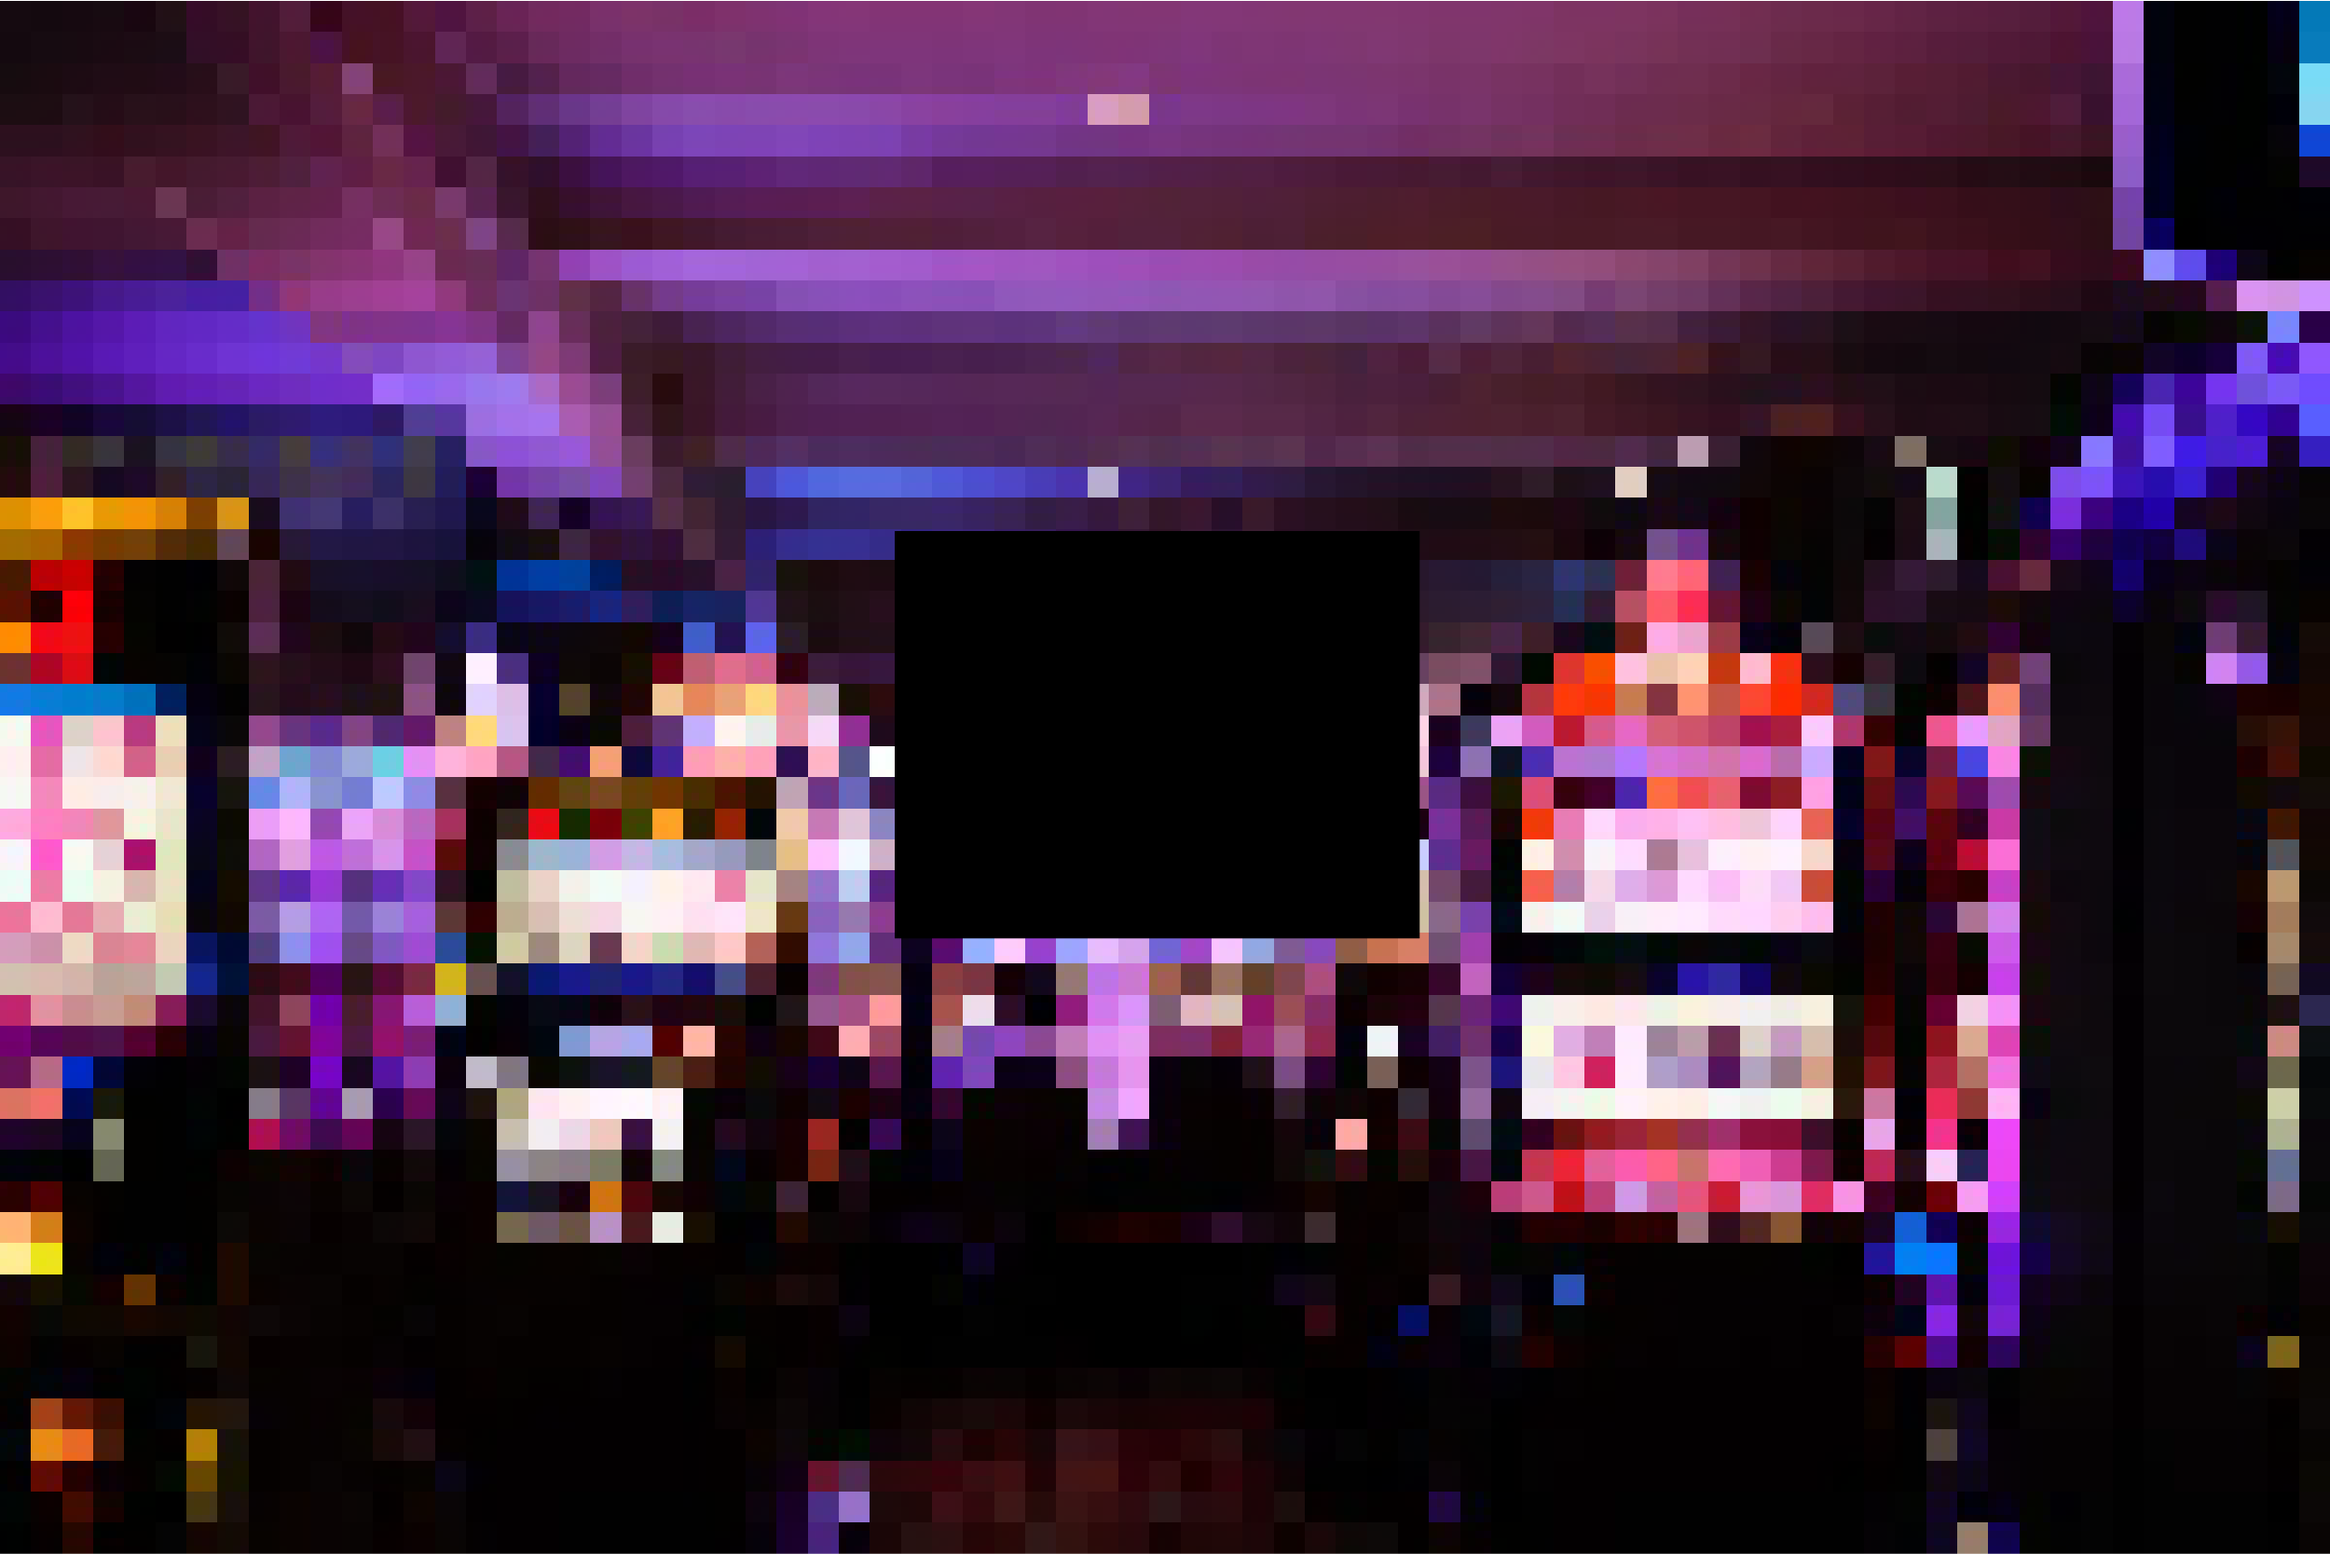
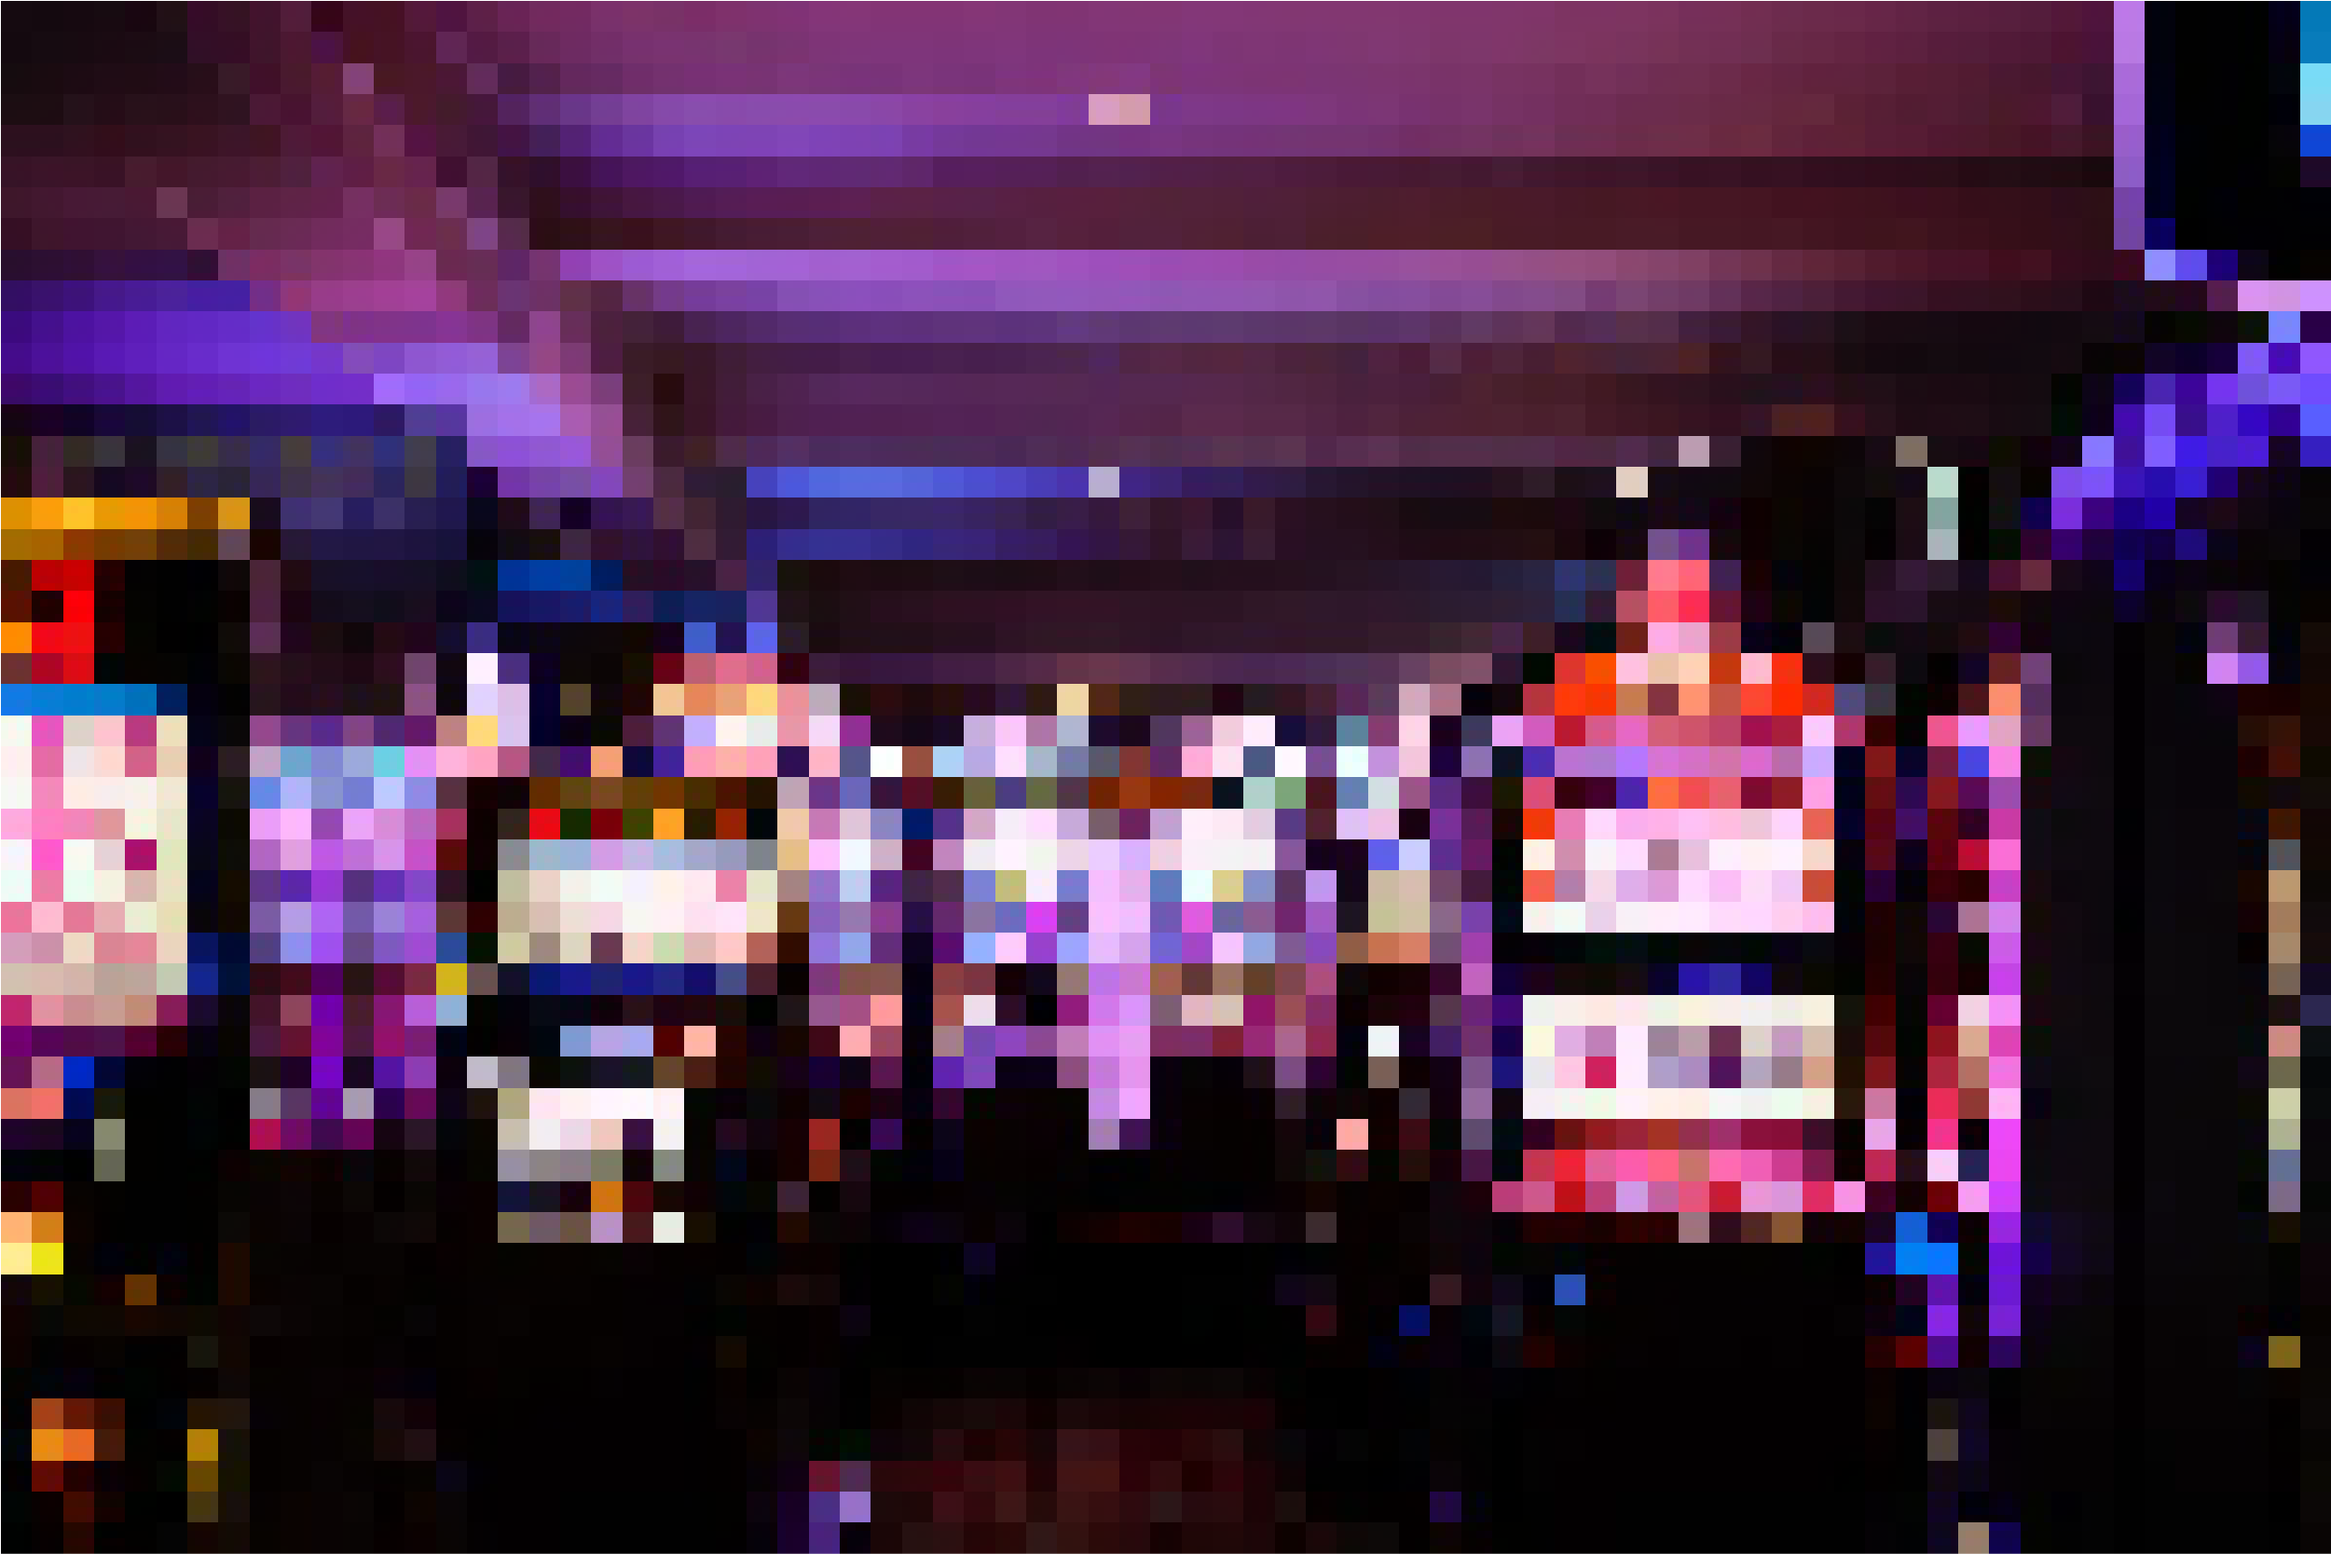
Music? o-O

Changed region(s): [[0.3744, 0.3429, 0.624, 0.6235]]

diff --git a/sketch.js b/sketch.js
@@ -27,8 +27,8 @@ function preload() {
 function setup() {
   canvas = createCanvas(windowWidth / 1.1, windowHeight);
   canvas.parent('myCanvas');
-  mySound.loop();
 
+  rectMode(CENTER);
   x = 1;
 	changeDirection = false;
 
@@ -44,7 +44,7 @@ function setup() {
 }
 
 function draw() {
-image(sm, width * 0.5, height * 0.5, width * 0.325, height);
+image(sm, windowWidth * 0.455, windowHeight * 0.5, windowWidth * 0.325, windowHeight);
 
 
 
@@ -59,7 +59,7 @@ function roll() {
   t = "No luck, try again!";
 
   fill(0, 0, 0);
-  rect(windowWidth * 0.4, windowHeight * 0.35, windowWidth * 0.2, windowHeight * 0.17);
+  rect(windowWidth * 0.454, windowHeight * 0.435, windowWidth * 0.19, windowHeight * 0.17);
   slotResult1 = int(random(slots.length));
   slotResult2 = int(random(slots.length));
   slotResult3 = int(random(slots.length));
@@ -85,9 +85,9 @@ function roll() {
     mySound2.play();
 
   }
-  image(slots[slotResult1], width * 0.435, height * 0.43, width * 0.06, height * 0.08);
-  image(slots[slotResult2], width * 0.5, height * 0.43, width * 0.06, height * 0.08);
-  image(slots[slotResult3], width * 0.565, height * 0.43, width * 0.06, height * 0.08);
+  image(slots[slotResult1], windowWidth * 0.39, windowHeight * 0.43, windowWidth * 0.06, windowHeight * 0.08);
+  image(slots[slotResult2], windowWidth * 0.455, windowHeight * 0.43, windowWidth * 0.06, windowHeight * 0.08);
+  image(slots[slotResult3], windowWidth * 0.52, windowHeight * 0.43, windowWidth * 0.06, windowHeight * 0.08);
 
   console.log(slotResult1);
   console.log(slotResult2);
@@ -139,6 +139,6 @@ function textBox(){
   image(tb, windowWidth / 1.4, windowHeight / 1.2, windowWidth / 2.1, windowHeight / 1.9);
   textFont(myFont);
   textSize(ts);
-  text(t, windowWidth / 1.9, windowHeight / 1.3, windowWidth / 2.7, windowHeight / 1.9);
+  text(t, windowWidth / 1.4, windowHeight / 0.98, windowWidth / 2.7, windowHeight / 1.9);
 pop();
 }

diff --git a/index.html b/index.html
@@ -19,7 +19,9 @@
 
 <div id="button"></div>
 
-
+<audio controls loop>
+  <source src="/sounds/1.mp3" type="audio/mp3"
+</audio>
 </div>
           </div>
         </div>
